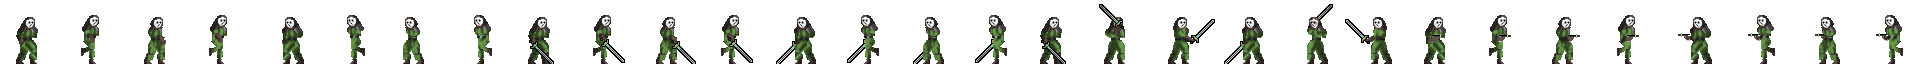
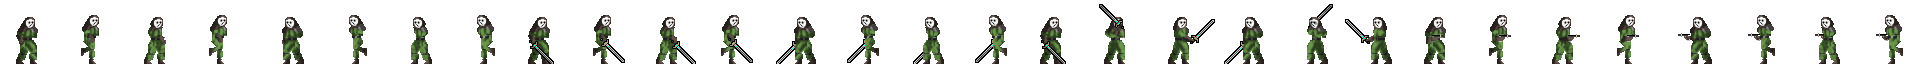
revised hero animation slightly and added enemy test sprite

Changed region(s): [[0.1562, 0.25, 0.2812, 1.0]]

diff --git a/js/Load.js b/js/Load.js
@@ -20,6 +20,7 @@ Load.prototype = {
       game.load.path = './assets/' // should probably split directory to img and audio
       game.load.image('pbg', 'img/battle-background.jpg'); // pbg stands for platformer background
       game.load.image('hero', 'img/hero.png');
+      game.load.image('baddie', 'img/Militant.png');
       game.load.image('arrow', 'img/crossbowBolt.png');
       game.load.spritesheet('platHero', 'img/hero-tall.png', 64, 64);
       game.load.image('collider', 'img/collider.png'); // obg = overworld background

diff --git a/js/PlayPlatform.js b/js/PlayPlatform.js
@@ -65,10 +65,10 @@ PlayPlatform.prototype = {
       //TESTING BLOCK, ENEMY SPAWN
       //
 
-      enemy = new enemyBuild(this.game,1,1,600,300,'platHero');
+      enemy = new enemyBuild(this.game,1,1,600,300,'baddie');
       var enemyGroup = this.game.add.group();
       enemyGroup.add(enemy);
-      enemy.alpha = .6;
+      //enemy.alpha = .6;
       enemy.body.gravity.y = 1500;
       enemy.body.collideWorldBounds = true;
       //
